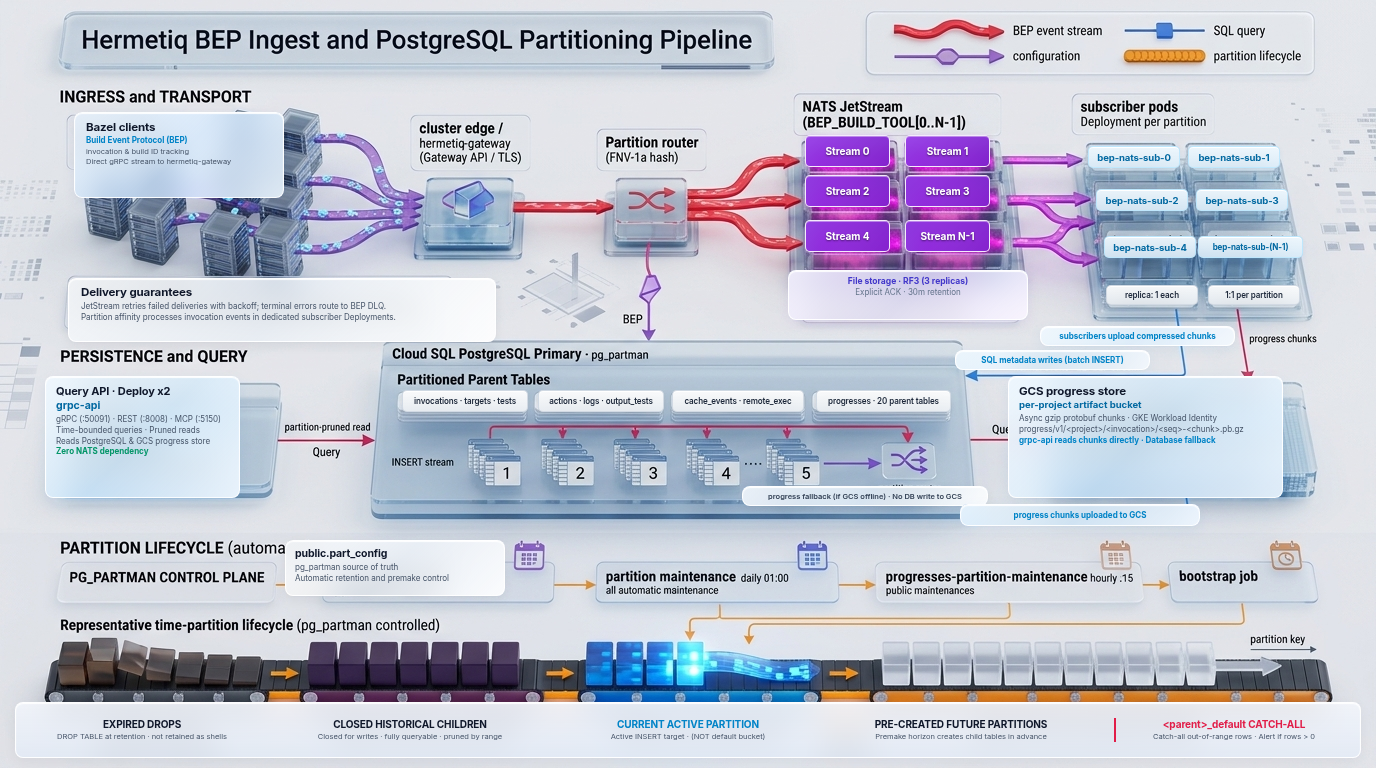
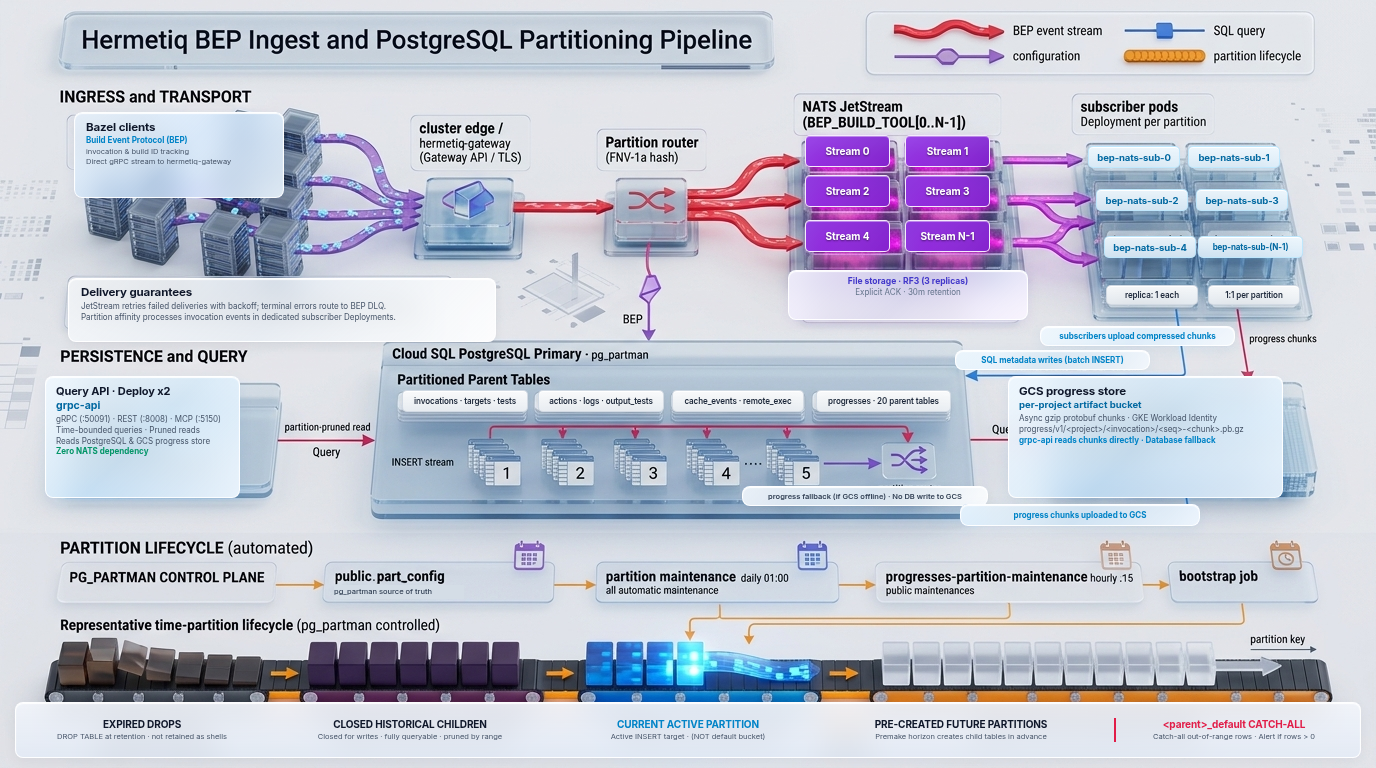
docs: fix part_config card alignment and eliminate overlapping textarea in ingest diagram

Changed region(s): [[0.1875, 0.6875, 0.375, 0.7812]]

diff --git a/scripts/generate_diagrams.py b/scripts/generate_diagrams.py
@@ -374,10 +374,9 @@ d2_html = f"""<!DOCTYPE html>
     <span style="font-size: 8px; font-weight: 700; color: #0284c7;">progress chunks uploaded to GCS</span>
   </div>
 
-  <!-- 8. Control plane typo fix: height: 56px covers 'source tom' -->
-  <div class="glass-slate" style="top: 540px; left: 285px; width: 220px; height: 56px; padding: 6px 9px;">
-    <div class="card-title" style="font-size: 10.5px;">public.part_config</div>
-    <div class="card-sub" style="font-size: 8px; margin-top: 2px;">pg_partman source of truth<br>Automatic retention and premake control</div>
+  <!-- 8. Control plane typo fix (source tom -> source of truth) preserving native card & arrows -->
+  <div style="position: absolute; z-index: 10; top: 585px; left: 334px; width: 130px; height: 14px; background: #d4dde6; display: flex; align-items: center;">
+    <span style="font-size: 7.5px; color: #334155; font-weight: 500; font-family: Inter, sans-serif; line-height: 1;">pg_partman source of truth</span>
   </div>
 
   <!-- 9. Bottom Conveyor Partition Timeline Dock -->
